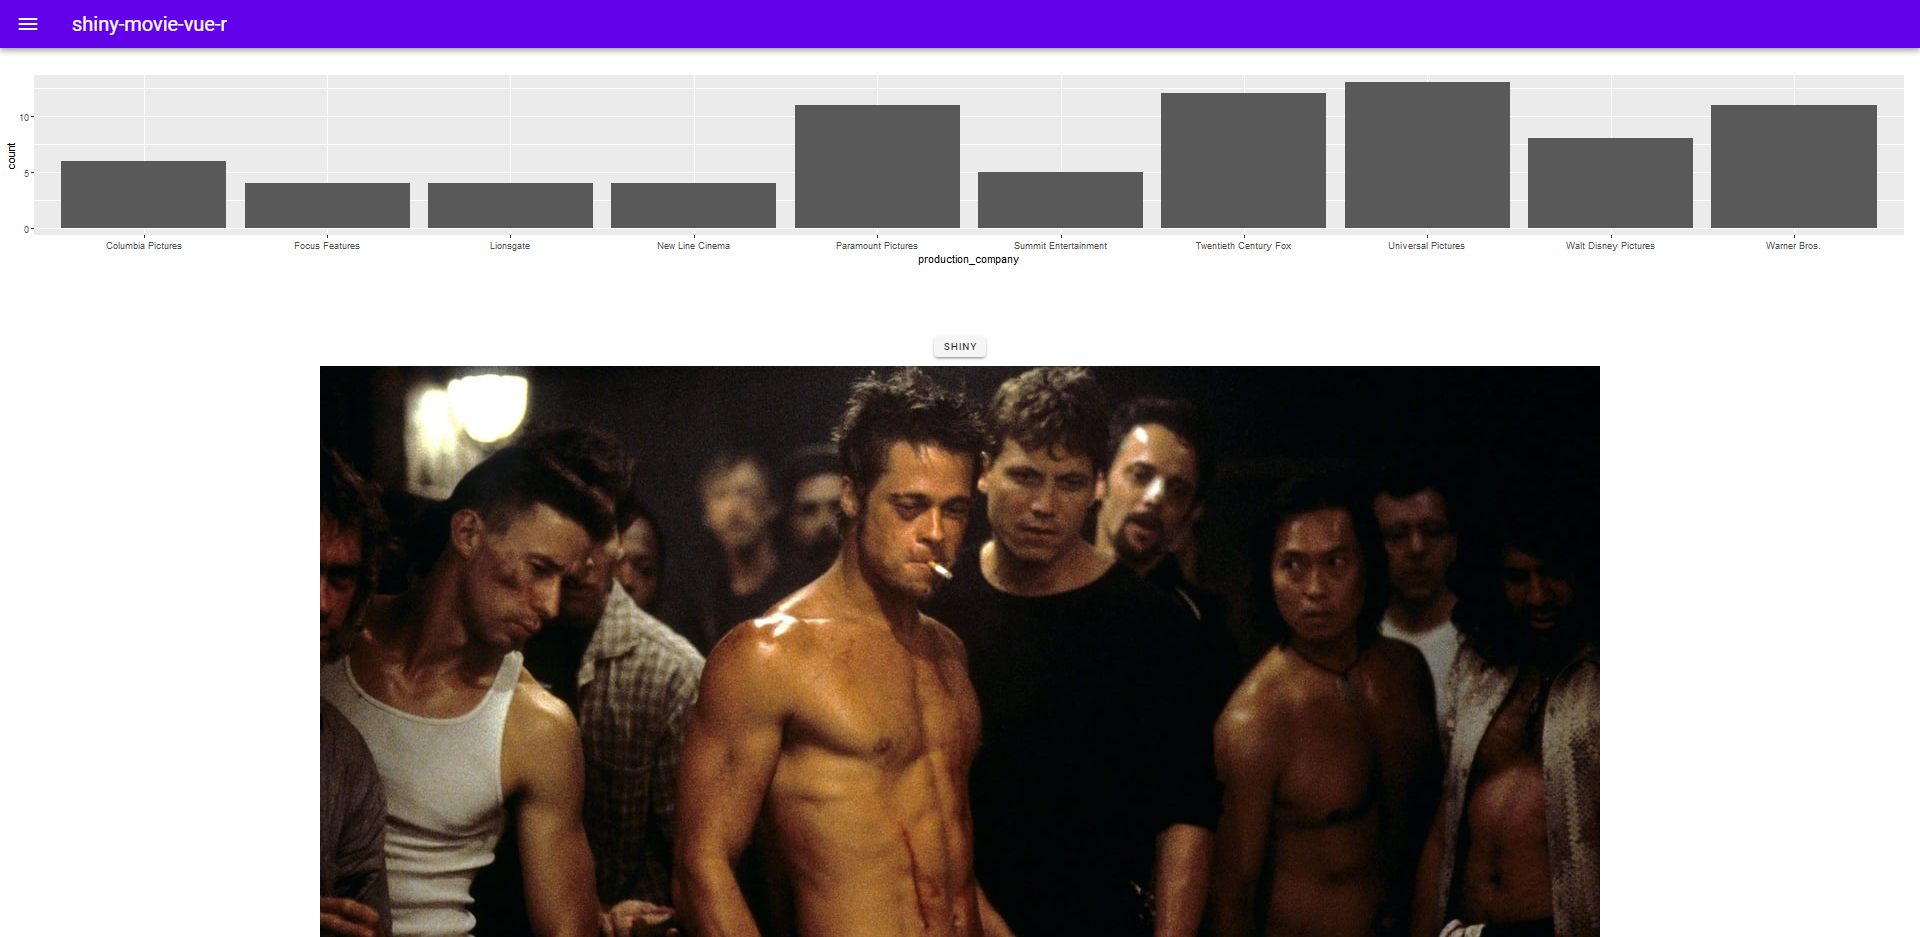
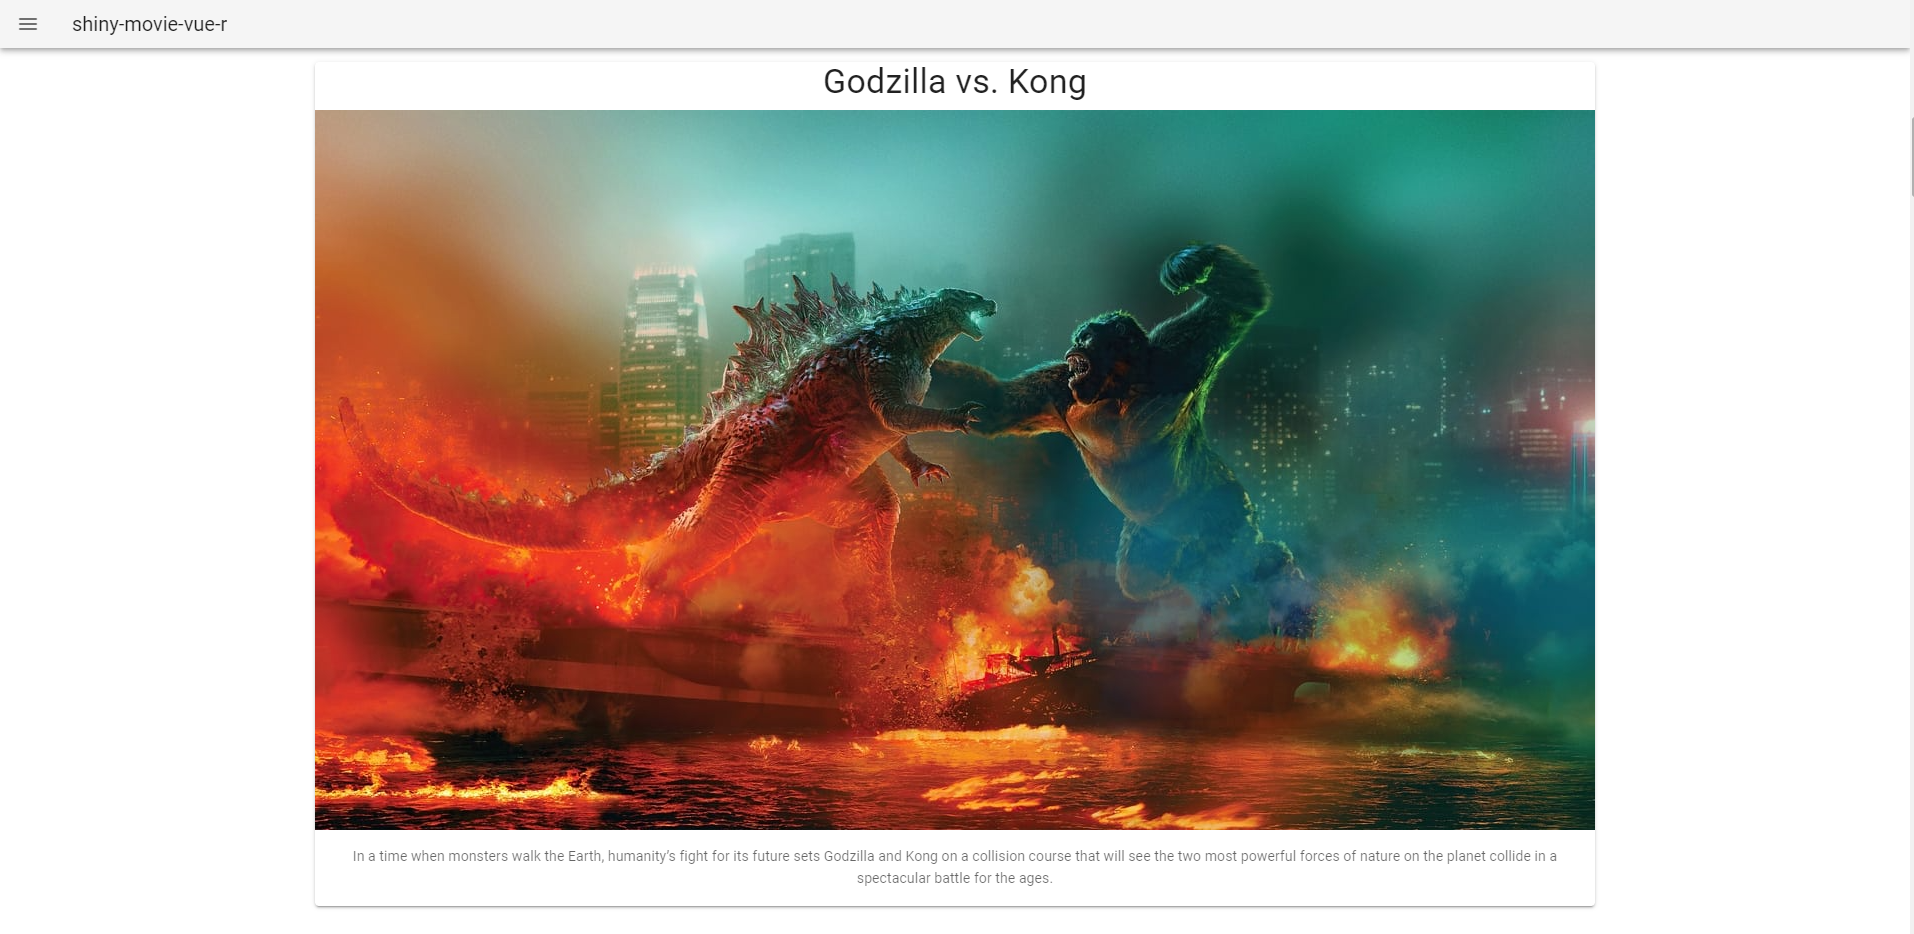
added backdrop image cards

diff --git a/www/components.js b/www/components.js
@@ -46,7 +46,7 @@ $(document).on("shiny:connected", function (event) {
             clearable>
         </v-autocomplete>
 
-      </div>`
+      </div > `
   });
 
 });
@@ -55,7 +55,6 @@ Vue.component("vr-wrapper", {
 
   data() {
     return {
-      name: "test",
       show: false,
       payload: null,
     }
@@ -72,26 +71,30 @@ Vue.component("vr-wrapper", {
   },
 
   computed: {
-    count() {
-      return this.$store.state.count;
-    },
 
-    backdrop() {
-      return this.payload ? 'https://image.tmdb.org/t/p/w1280/' + this.payload.backdrop_path : '';
+    popularMovies() {
+      return this.$store.state.popularMovies;
     }
-
   },
 
   template: `
-      <div class="ma-2">
+    <div class= "ma-2">
 
         <vr-search-box class="mx-auto" style="width: 600px"/>
  
-        <img :src="backdrop" />
+        <v-card v-for="(movie,index) in popularMovies" :key="index" class="my-10 elevation-2 mx-auto" :width="1280">
+
+          <div class="text-center text-h4 my-2">{{movie.title}}</div>
+
+          <v-img width="1280" :src="'https://image.tmdb.org/t/p/w1280/' + movie.backdrop_path"></v-img>
+
+          <v-card-text>{{movie.overview}}</v-card-text>
+
+        </v-card>
 
         <div class="my-5 text-center">{{ $i18n.t("message.hello") }}</div>
 
-        <v-btn x-small @click="show=!show">open</v-btn>
+        <v-btn x-small @click="show=!show" > open</v-btn >
 
         <c3-bar-chart id="bar1"/>
 
@@ -111,11 +114,11 @@ Vue.component("vr-wrapper", {
                 close
               </v-btn>
               <div class="py-3">
-               bottom sheet example
+        bottom sheet example
               </div>
             </v-sheet>
           </v-bottom-sheet>
-      </div>`
+      </div > `
 });
 
 Vue.component("c3-bar-chart", {
@@ -123,14 +126,11 @@ Vue.component("c3-bar-chart", {
   props: ["id"],
 
   template: `
-    <v-card class="mt-2 mb-5 pa-2 d-flex justify-center align-center"  height=400 color="grey lighten-5">
-      
+    <v-card class="mt-2 mb-5 pa-2 d-flex justify-center align-center"  :height='400' color="grey lighten-5" >
       <div :id="id"></div>
-
       <slot name="footer"></slot>
-
-    </v-card>
-      `,
+    </v-card >
+    `,
 
   computed: {
     c3() {
@@ -157,16 +157,12 @@ Vue.component("c3-bar-chart", {
 Vue.component("vr-table", {
 
   template: `
-  <div>
-     <v-data-table
-      fixed-header
-       height="300px"
-      :headers="headers"
-      :items="movies"
-      :items-per-page="10"
-      class="elevation-1">
-  </v-data-table>
-  </div>
+      <v-data-table
+        :headers="headers"
+        :items="movies"
+        :items-per-page="10"
+        class="elevation-1">
+      </v-data-table>
   `,
 
   data() {

diff --git a/www/vue.js b/www/vue.js
@@ -7,10 +7,15 @@ $(document).on("shiny:connected", function (event) {
             count: 10,
             c3: {},
             movies: [],
+            popularMovies: [],
             suggestions: []
         },
 
         mutations: {
+
+            setPopularMovies(state, value) {
+                state.popularMovies = value;
+            },
 
             setSuggestions(state, value) {
                 state.suggestions = value;

diff --git a/template.html b/template.html
@@ -56,12 +56,17 @@
 
   <div id="app" ref="app">
 
-    <v-app id="inspire">
+    <v-app>
 
-      <v-app-bar app color="deep-purple accent-4" dense dark>
+      <v-app-bar app dense>
+
         <v-app-bar-nav-icon></v-app-bar-nav-icon>
 
         <v-toolbar-title>shiny-movie-vue-r</v-toolbar-title>
+
+        <v-spacer></v-spacer>
+
+        <span class="mx-2">v0.2</span>
 
       </v-app-bar>
 

diff --git a/README.md b/README.md
@@ -54,17 +54,11 @@ All data is send via R.
 - jsonlite
 - tidyverse
 - TMDb
-
-Please make sure these packages are installed. 
-
 ##### Data
 
 A small toy dataframe is based on the [Kaggle IMDB movies extensive dataset](https://www.kaggle.com/stefanoleone992/imdb-extensive-dataset). This will be used to do in memory computation via `tidyverse` and `igraph`. 
 
-We also pull data via an API from [The Movie DataBase](https://www.themoviedb.org/) using the `httr` package (to show beginner how to make GET requests) and using the `TMDb` RData package. 
-
-Soon we also pull in Covid data from John Hopkins and use pre-processed data 
-(to answer the question - Can you go to the movies?)
+We also pull data via an API from [The Movie DataBase](https://www.themoviedb.org/) using the `httr` package and using the `TMDb` RData package. See `data/tmdb_schema.json` for request url details.
 
 ##### Ideas
 
